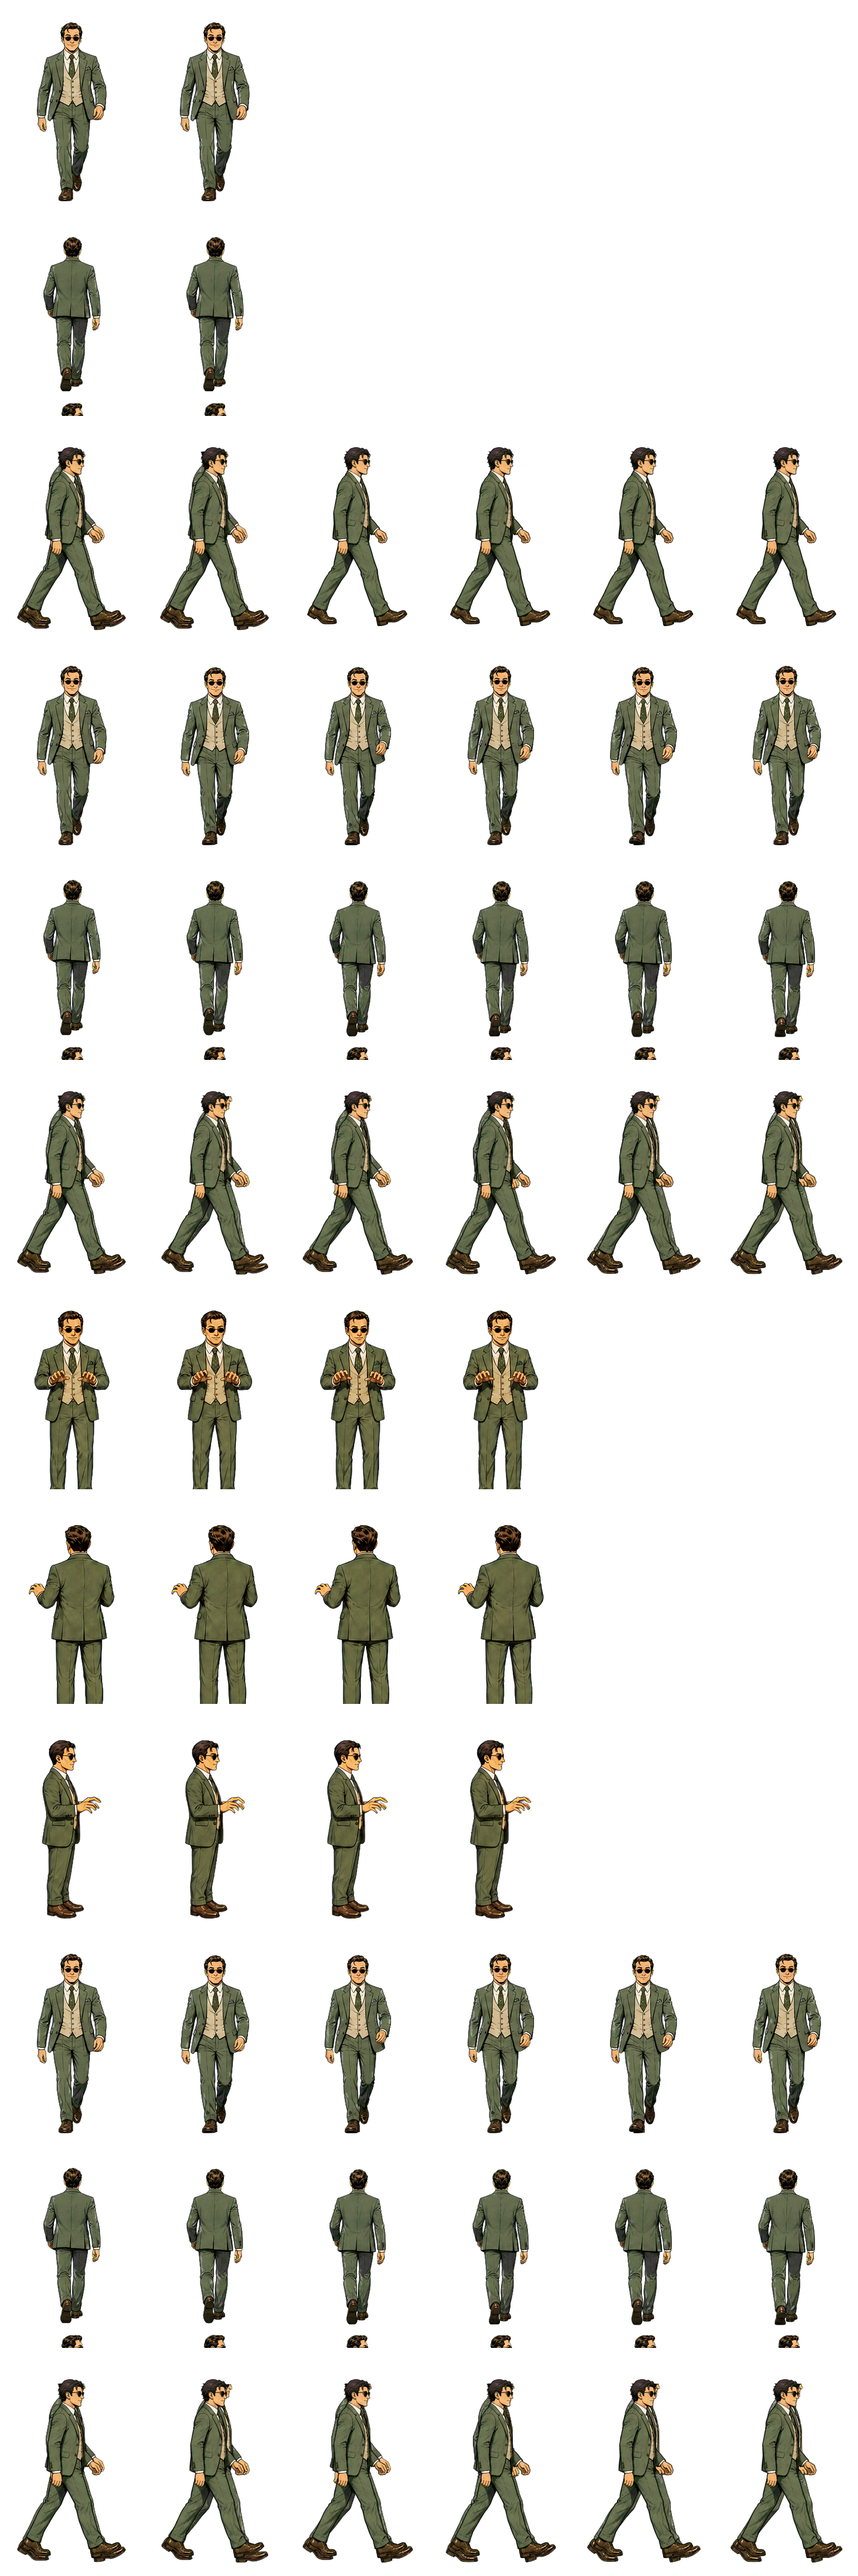
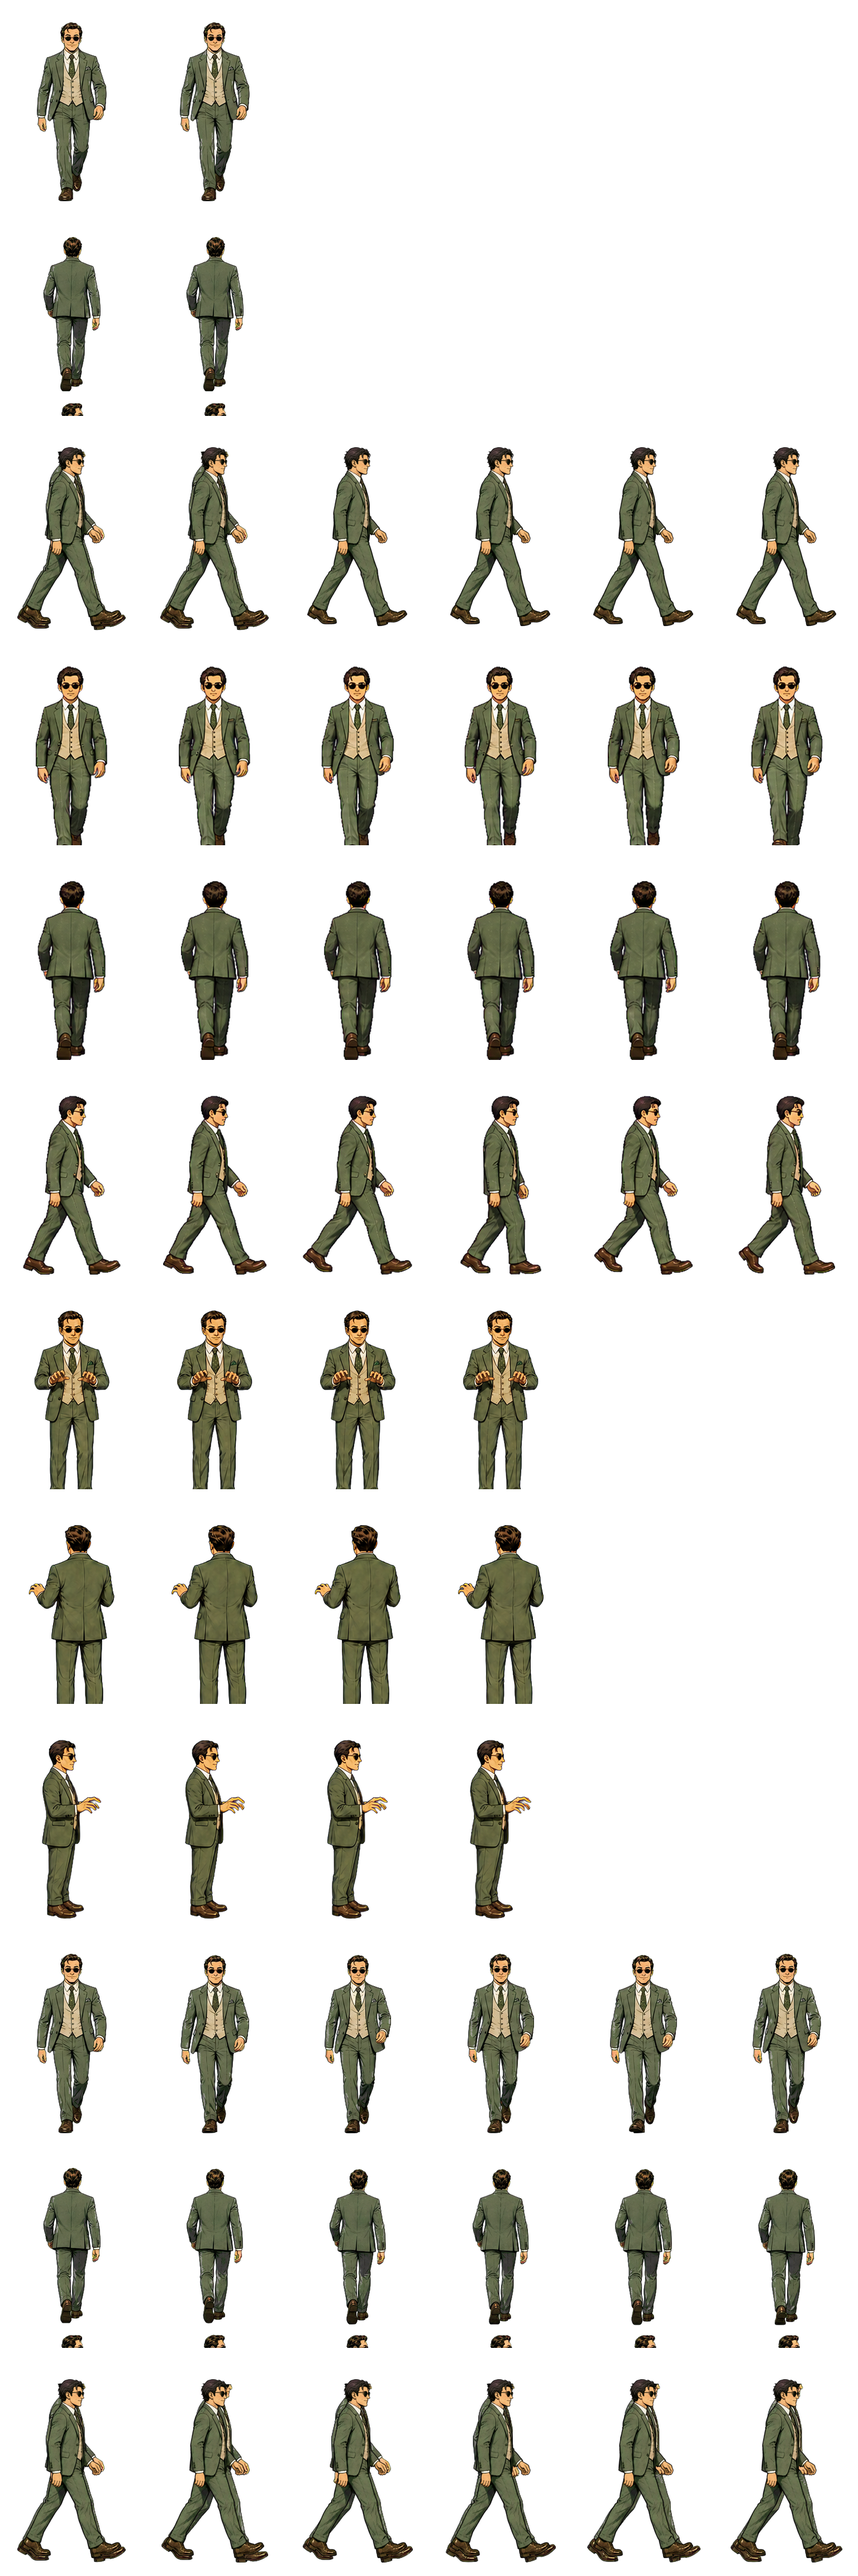
fix(characters): rebuild coordinator walk cycle

diff --git a/game/tools/audit_character_sheets.py b/game/tools/audit_character_sheets.py
@@ -3,8 +3,8 @@
 
 Controlla i fogli principali 6x12 descritti in docs/SPRITES.md. L'audit non
 modifica gli asset: segnala celle vuote/occupate per errore, figure tagliate ai
-bordi, piedi fuori ancoraggio e frame molto piu' larghi dei vicini (sintomo
-tipico di due sagome sovrapposte nello stesso frame).
+bordi, piedi fuori ancoraggio, frammenti staccati e frame molto piu' larghi dei
+vicini (sintomo tipico di due sagome sovrapposte nello stesso frame).
 """
 
 from __future__ import annotations
@@ -25,6 +25,9 @@ ROWS = 12
 FEET_Y = 360
 USED_PER_ROW = (2, 2, 2, 6, 6, 6, 4, 4, 4, 6, 6, 6)
 ALPHA_THRESHOLD = 24
+WALK_ROWS = frozenset((3, 4, 5))
+MIN_FRAGMENT_ROWS = 18
+MIN_FRAGMENT_GAP = 8
 
 
 @dataclass(frozen=True)
@@ -47,6 +50,29 @@ def alpha_bounds(alpha: Image.Image) -> Bounds | None:
         return None
     left, top, right, bottom = box
     return Bounds(left, top, right - 1, bottom - 1, mask.histogram()[255])
+
+
+def occupied_row_segments(alpha: Image.Image) -> list[tuple[int, int]]:
+    """Restituisce le bande verticali realmente occupate nella cella.
+
+    La riduzione BOX calcola in C la densita' alpha di ogni riga. Ignorare le
+    righe con meno di tre pixel opachi evita che un singolo residuo di matte
+    spezzi la sagoma; una seconda banda alta e separata resta invece il segno
+    misurabile di scarpe/teste fantasma montate nella stessa cella.
+    """
+    mask = alpha.point(lambda value: 255 if value > ALPHA_THRESHOLD else 0)
+    profile = mask.resize((1, CELL_H), Image.Resampling.BOX)
+    values = list(profile.tobytes())
+    segments: list[tuple[int, int]] = []
+    start: int | None = None
+    for row, value in enumerate(values + [0]):
+        occupied = value >= 3
+        if occupied and start is None:
+            start = row
+        elif not occupied and start is not None:
+            segments.append((start, row))
+            start = None
+    return segments
 
 
 def audit_sheet(path: Path, *, strict_unused: bool = False) -> list[str]:
@@ -96,6 +122,23 @@ def audit_sheet(path: Path, *, strict_unused: bool = False) -> list[str]:
                 errors.append(
                     f"{label}: piedi a y={bounds.bottom}, atteso {FEET_Y - 16}..{FEET_Y + 12}"
                 )
+
+            # Il vecchio walk_up del Coordinatore aveva il corpo e un secondo
+            # frammento grafico ai piedi: bbox e aggancio restavano validi, ma
+            # in animazione i due elementi tremavano fuori sequenza. Nelle
+            # tracce walk una seconda banda alta e ben separata non e' un
+            # dettaglio antialias, quindi deve fermare la consegna.
+            if row in WALK_ROWS:
+                segments = occupied_row_segments(cell)
+                for previous, detached in zip(segments, segments[1:]):
+                    gap = detached[0] - previous[1]
+                    height = detached[1] - detached[0]
+                    if gap >= MIN_FRAGMENT_GAP and height >= MIN_FRAGMENT_ROWS:
+                        errors.append(
+                            f"{label}: frammento grafico staccato "
+                            f"(gap {gap}px, altezza {height}px)"
+                        )
+                        break
         row_bounds.append(current)
 
     for row, bounds in enumerate(row_bounds):

diff --git a/game/assets/gen-art/LOG.md b/game/assets/gen-art/LOG.md
@@ -384,3 +384,18 @@ ritratti richiesti.
   vengano davvero preferite al fallback di ruolo. Esito: `COMIC-CHAT-TEST PASS`.
 - Regressione conclusiva: `bash game/tools/run.sh test` → `[run.sh] TEST OK`,
   inclusi 36/36 fogli personaggio e 60/60 ritratti per istanza.
+
+### 2026-07-30 — Camminata del Coordinatore rimontata
+
+- La verifica temporale ha mostrato che `walk_up` conteneva una seconda banda
+  grafica staccata sotto il corpo e che i sei profili variavano troppo poco:
+  il controllo precedente sui soli bordi non poteva rilevarlo.
+- Rigenerata con la skill `imagegen` la sorgente
+  `characters/sources/core/coordinatore_a_walk.png`: stessa identità, completo
+  oliva e tratto pittorico; 6 frame cronologici per fronte, retro e profilo,
+  ciclo contact→down→pass specchiato e nessun elemento sovrapposto.
+- Sostituite chirurgicamente soltanto le righe `walk` 3–5 del foglio finale;
+  idle, work e carry sono rimaste pixel-identiche.
+- Esteso `audit_character_sheets.py` per respingere frammenti verticali
+  staccati nei frame di camminata. Il vecchio foglio fallisce la nuova
+  regressione; quello corretto passa.

diff --git a/game/docs/SPRITES.md b/game/docs/SPRITES.md
@@ -68,6 +68,8 @@ Celle non usate = completamente trasparenti.
 4. **Margini**: nessuna figura tocca i bordi superiore o laterali della
    cella. Lo slicer limita sia altezza sia larghezza; il volto non deve essere
    già tagliato nel sorgente.
+5. **Continuità**: ogni frame di camminata contiene una sola sagoma verticale;
+   niente scarpe, teste o altri frammenti staccati che tremano fuori sequenza.
 
 Audit statico di tutti i fogli principali:
 
@@ -75,9 +77,10 @@ Audit statico di tutti i fogli principali:
 python3 tools/audit_character_sheets.py
 ```
 
-Il controllo misura anche le pose `work` contro le altre angolazioni e segnala
-le doppie sagome sovrapposte. `--strict-unused` rende errore anche l'arte nelle
-celle che il rig non usa; senza il flag quelle celle legacy vengono ignorate.
+Il controllo misura anche le pose `work` contro le altre angolazioni, segnala
+le doppie sagome sovrapposte e intercetta frammenti staccati nei cicli `walk`.
+`--strict-unused` rende errore anche l'arte nelle celle che il rig non usa;
+senza il flag quelle celle legacy vengono ignorate.
 
 ## Foglio seduto (opzionale): `<slug>_sit.png`
 
